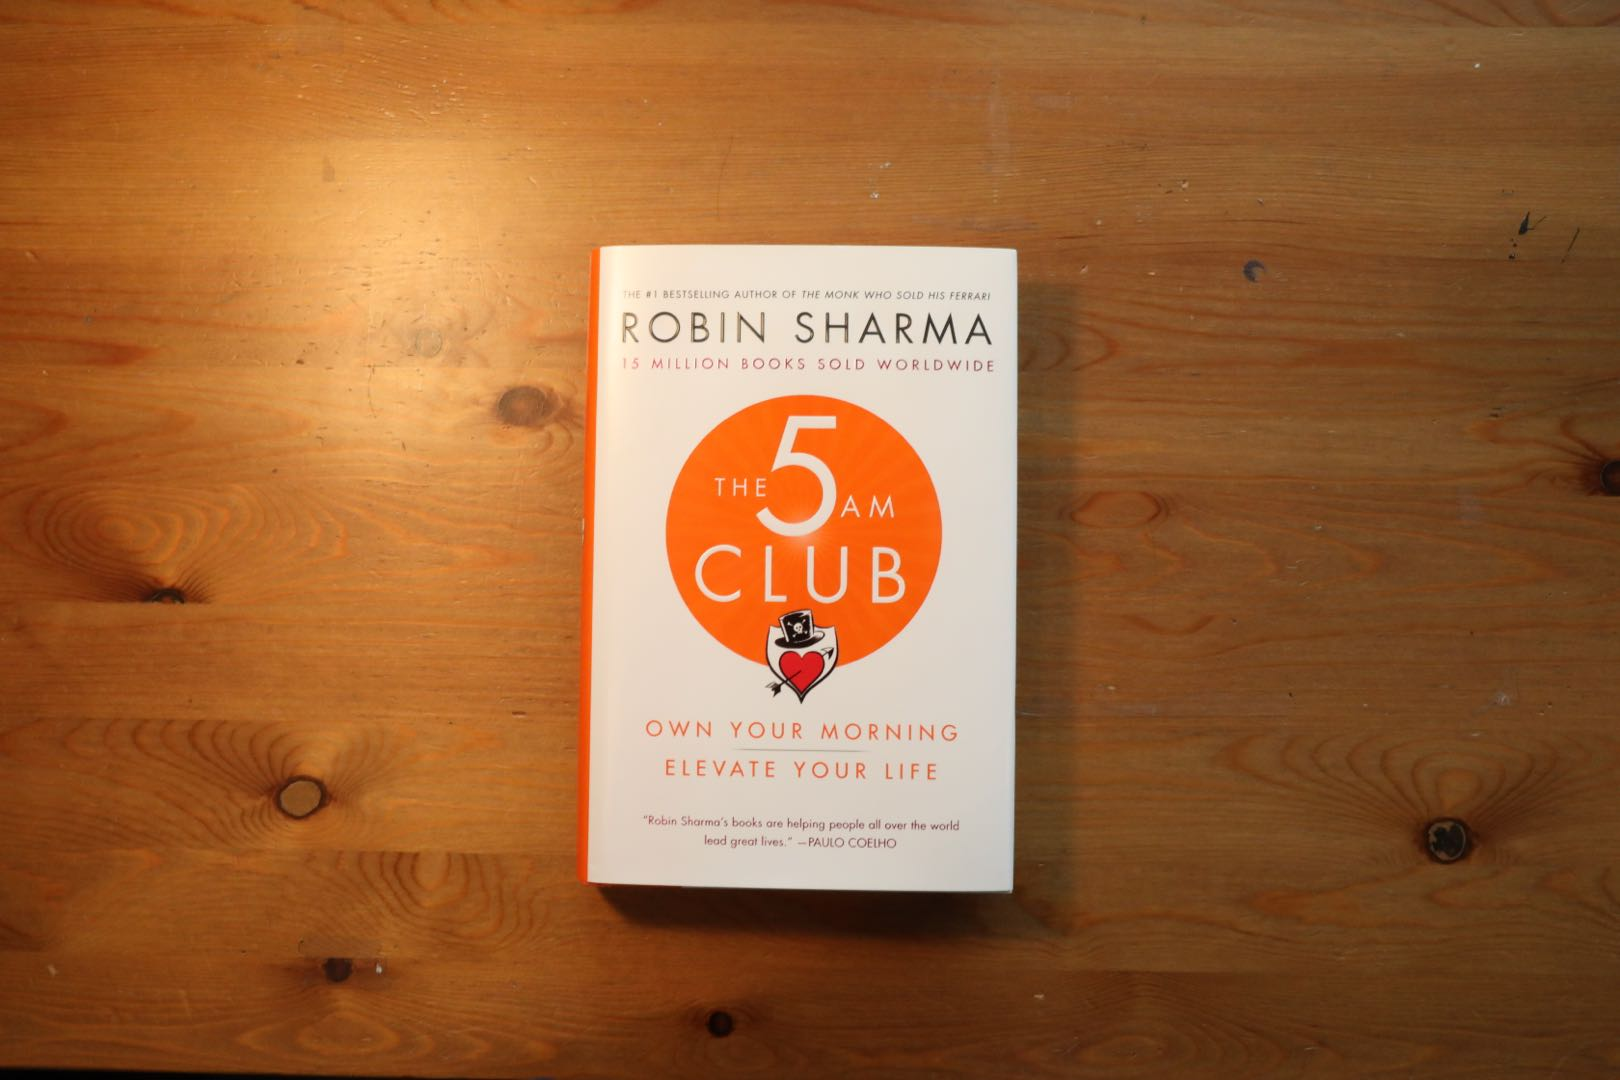
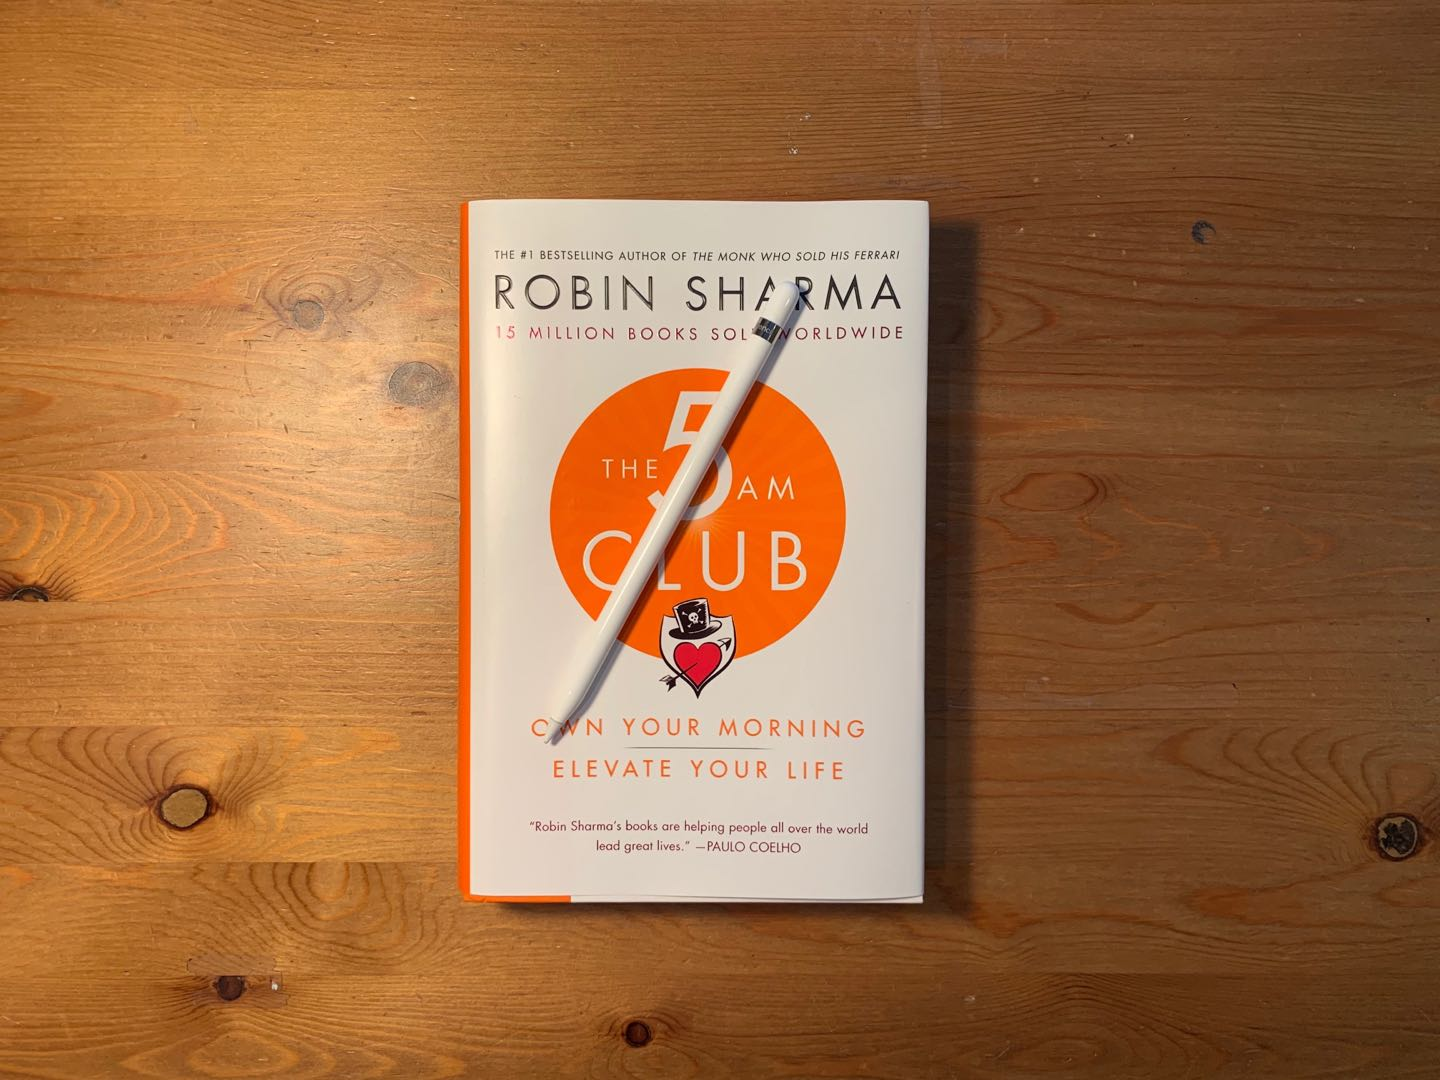
Changed main page

diff --git a/index.css b/index.css
@@ -1,0 +1,100 @@
+html, body {
+	margin: 0;
+	padding: 0;
+}
+
+a {
+	text-decoration: none;
+}
+
+.newest-review-cover {
+  z-index: 0;
+  background-color: #f28600;
+
+}
+
+.newest-review-cover img {
+  display: block;
+  height: 25%;
+  width: 50%;
+  margin: 0em auto;
+
+
+}
+
+.newest-review-content h2 {
+	
+	color: white;
+	font-size: 2rem;
+
+
+	
+}
+
+.newest-review-content h5 {
+
+	color: white;
+	font-size: 1rem;
+	padding-top: 1em;
+
+}
+
+.newest-review-content {
+	background-color: black;
+	padding: 3em 0;
+	text-align: center;
+
+}
+
+
+
+
+
+.book-review img{
+  width: 100%;
+  height: 200%;
+
+  
+
+
+}
+
+
+
+.book-review {
+	background-color: black;
+	display: inline-block;
+	width: 33%;
+	padding-left: 0;
+	border-right: solid 3px #f28600;
+	border-left: solid 3px #f28600;
+	border-top: solid 5px #f28600;
+	margin-left: -4px;
+	margin-top: 0;
+
+	vertical-align: top;
+
+
+
+
+}
+
+.book-review p {
+	color: white;
+	margin: 1em 0;
+}
+
+.post-title {
+	text-align: center;
+	font-size: 21px;
+	
+}
+
+
+
+.post-description {
+	padding: 0 2em;
+	height: 100px;
+
+
+}

diff --git a/index.html b/index.html
@@ -3,7 +3,7 @@
 	
 <head> 
 	<link href="header+footer.css" rel = "stylesheet" type="text/css" />
-	<link href="Homepage.css" rel = "stylesheet" type="text/css" />
+	<link href="index.css" rel = "stylesheet" type="text/css" />
 	 <meta charset="utf-8">
 	<title> The Novel Column - Book Reviews </title>
 
@@ -32,7 +32,7 @@
 
 <section class="newest-review-cover"> 
 	<a href="the-5am-club.html">
-		<img src="images/the-5am-club-poster.jpg" alt="The 5AM Club">
+		<img src="images/the-5am-club.jpg" alt="The 5AM Club">
 
 		<div class="newest-review-content"> 
 			<h2> The 5AM Club Review </h2>
